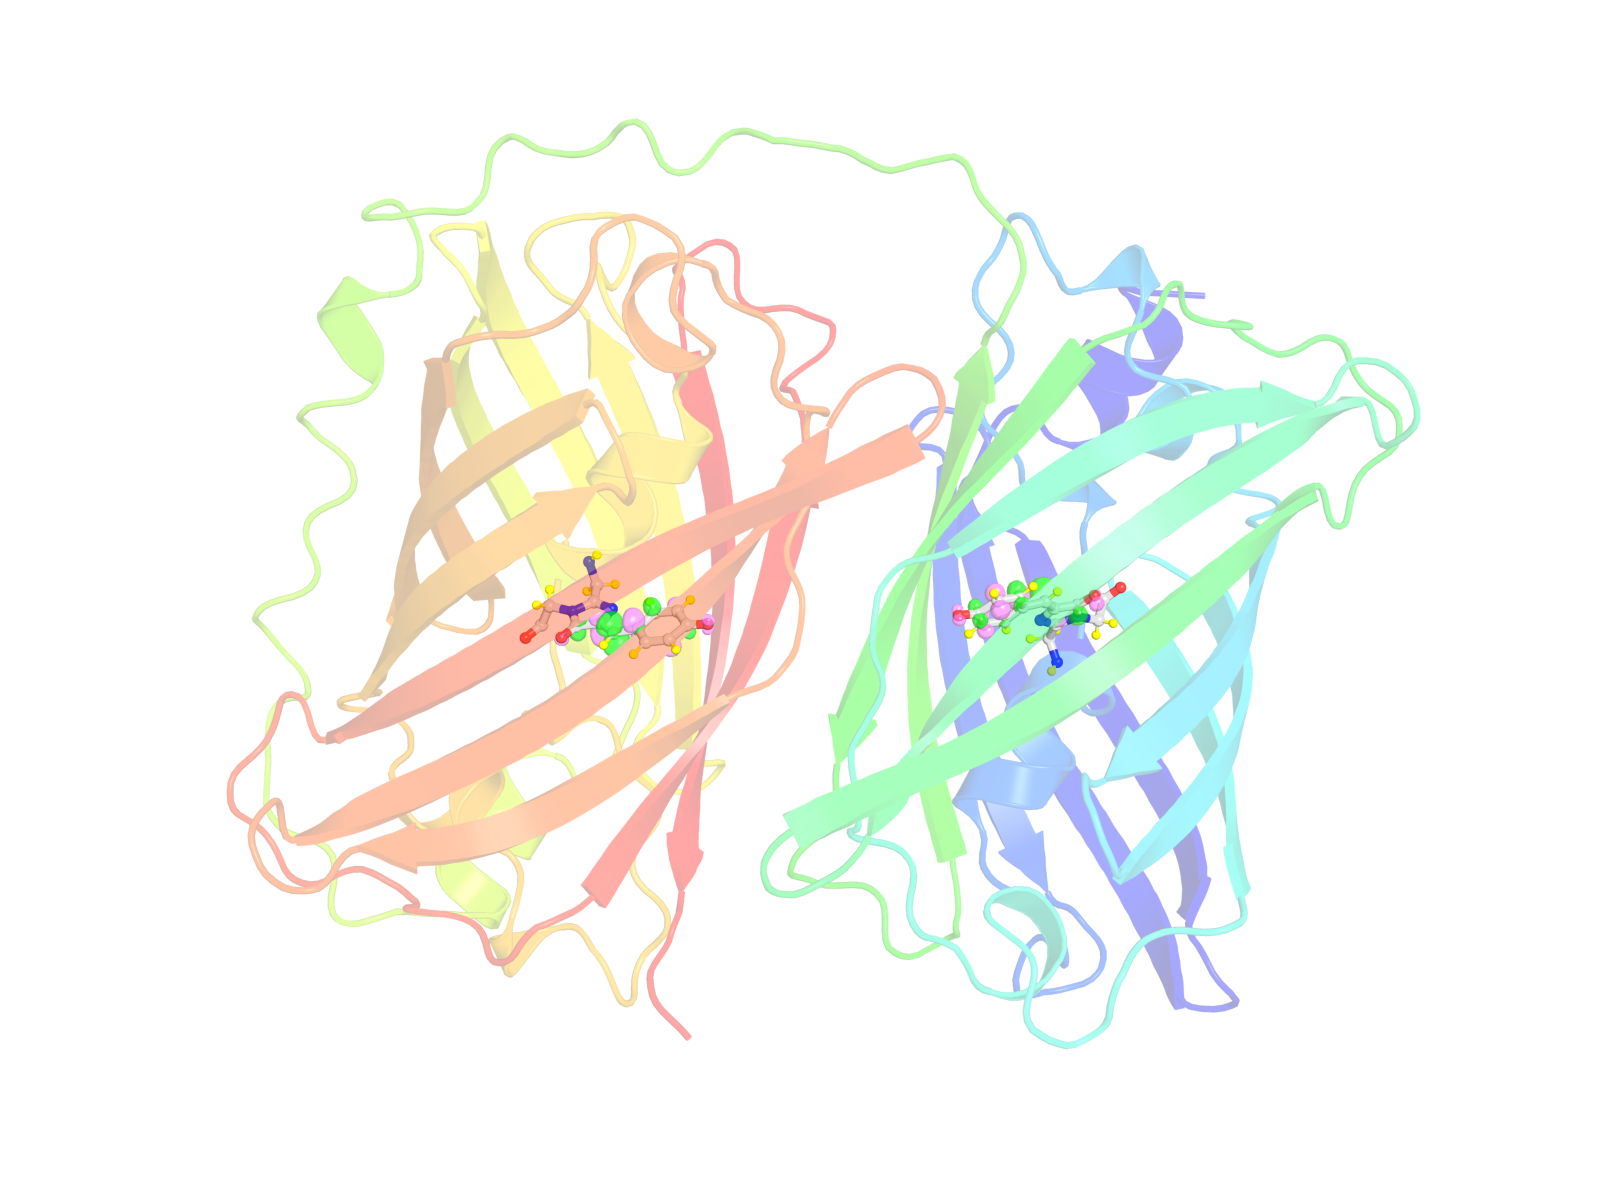
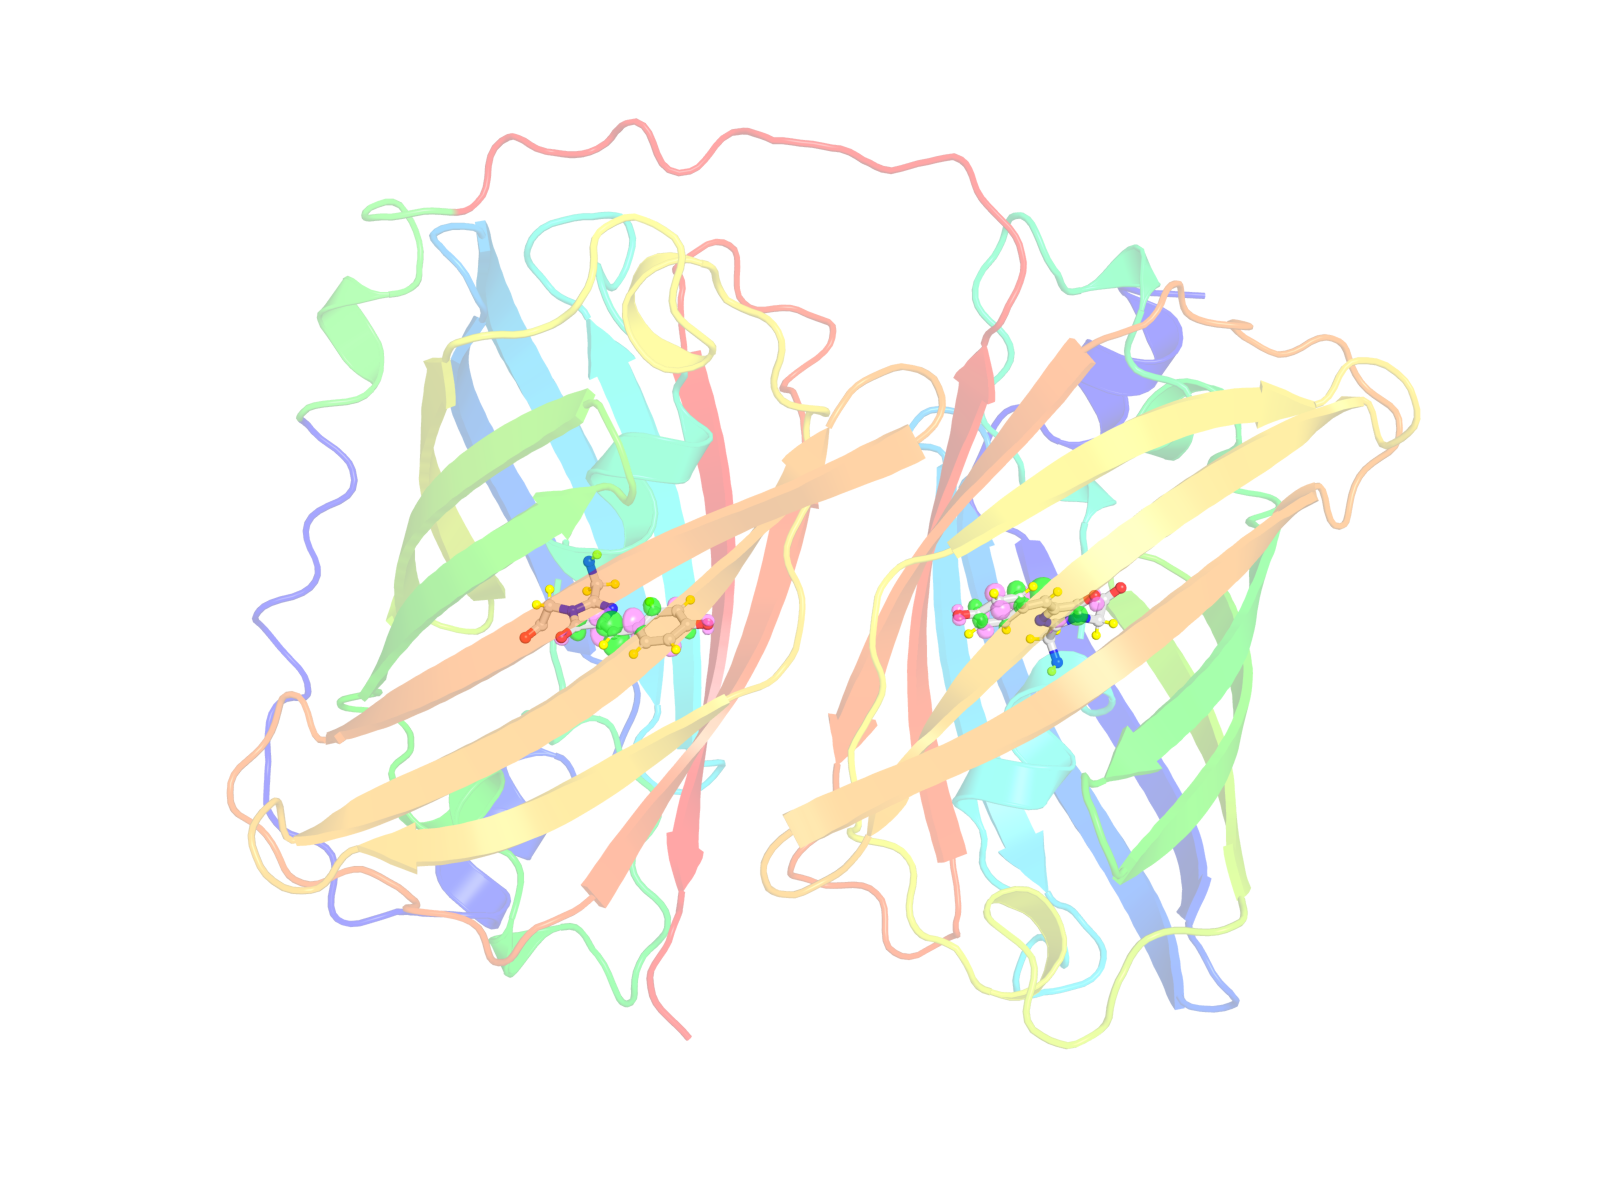
Fix PyMOL alignment and rainbow spectrum for single-chain tandem dimer

diff --git a/make_paper_figures.py b/make_paper_figures.py
@@ -23,12 +23,15 @@ for k, v in [("ray_opaque_background",0),("ray_shadows",0),("antialias",2),("amb
 # dimer scaffold + a monomer aligned onto each site
 cmd.load(DIMER, "dimer_ref")
 cmd.load(MONO, "siteA"); cmd.load(MONO, "siteB")
-cmd.super("siteA", "dimer_ref and resi 1-229")
-cmd.super("siteB", "dimer_ref and resi 263-491")
+cmd.align("siteA and name CA", "dimer_ref and resi 1-229 and name CA")
+cmd.align("siteB and name CA", "dimer_ref and resi 263-491 and name CA")
+cmd.matrix_copy("siteA", "siteA")  # ensure matrix is applied
+cmd.matrix_copy("siteB", "siteB")
 
 cmd.hide("everything")
 cmd.show("cartoon", "dimer_ref")
-cmd.spectrum("count", "rainbow", "dimer_ref and name CA")        # MM backbone, depth cue
+cmd.spectrum("count", "rainbow", "dimer_ref and resi 1-240 and name CA")
+cmd.spectrum("count", "rainbow", "dimer_ref and resi 250-500 and name CA")
 
 for s in ("siteA","siteB"):                                       # QM chromophore sticks+spheres
     cmd.show("sticks",  f"{s} and {QM}")

diff --git a/make_toc_white.py b/make_toc_white.py
@@ -23,8 +23,8 @@ cmd.bg_color("white")
 
 cmd.load(DIMER, "dimer_ref")
 cmd.load(MONO, "siteA"); cmd.load(MONO, "siteB")
-cmd.super("siteA", "dimer_ref and resi 1-229")
-cmd.super("siteB", "dimer_ref and resi 263-491")
+cmd.align("siteA and name CA", "dimer_ref and resi 1-229 and name CA")
+cmd.align("siteB and name CA", "dimer_ref and resi 263-491 and name CA")
 
 cmd.load(QMXYZ, "qmA"); cmd.load(QMXYZ, "qmB")
 cmd.matrix_copy("siteA", "qmA"); cmd.matrix_copy("siteB", "qmB")
@@ -35,7 +35,9 @@ for dst, site in [("mt_A", "siteA"), ("mt_B", "siteB")]:
 cmd.disable("mt")
 
 cmd.hide("everything")
-cmd.show("lines", "dimer_ref"); cmd.spectrum("count", "rainbow", "dimer_ref")  # rainbow skeleton (matches Figs 2,3)
+cmd.show("lines", "dimer_ref")
+cmd.spectrum("count", "rainbow", "dimer_ref and resi 1-240 and name CA")
+cmd.spectrum("count", "rainbow", "dimer_ref and resi 250-500 and name CA")
 for q in ("qmA", "qmB"):
     cmd.show("sticks", q); cmd.show("spheres", q)
 util.cbaw("qmA or qmB")

diff --git a/make_toc.py b/make_toc.py
@@ -23,8 +23,8 @@ cmd.bg_color("black")
 
 cmd.load(DIMER, "dimer_ref")
 cmd.load(MONO, "siteA"); cmd.load(MONO, "siteB")
-cmd.super("siteA", "dimer_ref and resi 1-229")
-cmd.super("siteB", "dimer_ref and resi 263-491")
+cmd.align("siteA and name CA", "dimer_ref and resi 1-229 and name CA")
+cmd.align("siteB and name CA", "dimer_ref and resi 263-491 and name CA")
 
 cmd.load(QMXYZ, "qmA"); cmd.load(QMXYZ, "qmB")
 cmd.matrix_copy("siteA", "qmA"); cmd.matrix_copy("siteB", "qmB")
